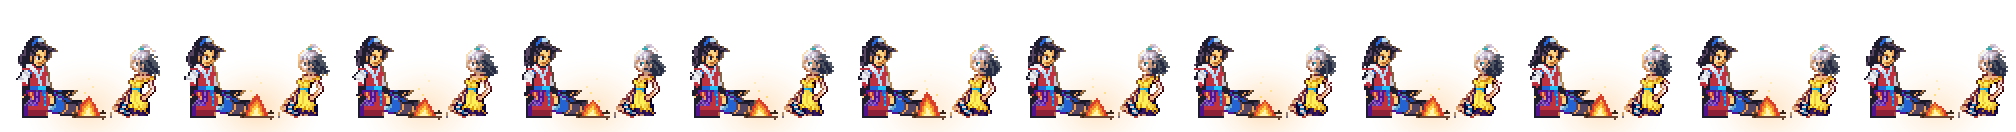
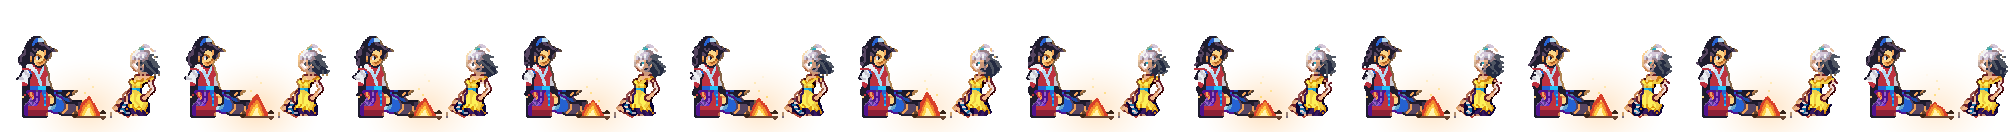
gpu render fix

diff --git a/tools/make_campfire.py b/tools/make_campfire.py
@@ -2,6 +2,7 @@
 Детали вырезаются из атласов, поворачиваются/отражаются и ставятся в позу «сидят у костра». Рисуется в родном
 разрешении игры и увеличивается x2 без сглаживания, потому что остальная графика меню тоже пиксельная."""
 import math, os
+import numpy as np
 from PIL import Image, ImageDraw
 
 ASSETS = os.path.join(os.path.dirname(os.path.abspath(__file__)), "..", "app", "src", "main", "assets")
@@ -334,6 +335,26 @@ def wind(img, box, phase, a0, a1, lag=0.45):
         img.alpha_composite(seg, (x0 + d, y))
 
 
+def epx2(img):
+    """Scale2x/EPX: увеличение вдвое со сглаживанием диагоналей (как игра сглаживает свои спрайты); игра потом ещё раз сглаживает при выводе."""
+    a = np.array(img.convert("RGBA")).astype(np.uint32)
+    k = (a[:, :, 0] << 24) | (a[:, :, 1] << 16) | (a[:, :, 2] << 8) | a[:, :, 3]
+    k = np.where(a[:, :, 3] == 0, 0, k)
+    pad = np.pad(k, 1, mode="edge")
+    A, D = pad[:-2, 1:-1], pad[2:, 1:-1]
+    C, B = pad[1:-1, :-2], pad[1:-1, 2:]
+    P = k
+    o1 = np.where((C == A) & (C != D) & (A != B), A, P)
+    o2 = np.where((A == B) & (A != C) & (B != D), B, P)
+    o3 = np.where((D == C) & (D != B) & (C != A), C, P)
+    o4 = np.where((B == D) & (B != A) & (D != C), D, P)
+    h, w = k.shape
+    out = np.zeros((h * 2, w * 2), dtype=np.uint32)
+    out[0::2, 0::2], out[0::2, 1::2], out[1::2, 0::2], out[1::2, 1::2] = o1, o2, o3, o4
+    rgba = np.stack([(out >> 24) & 255, (out >> 16) & 255, (out >> 8) & 255, out & 255], axis=-1).astype(np.uint8)
+    return Image.fromarray(rgba, "RGBA")
+
+
 def frame(i):
     nat = Image.new("RGBA", (NW, NH), (0, 0, 0, 0))
     talk_h = i < 6
@@ -348,7 +369,7 @@ def frame(i):
         wind(nat, (NW - 24, top_a + 27, NW - 3, top_a + 36), ph + 0.3, 0.4, 1.1, 0.8)  # подол платья
     firelight(nat, i)
     fire(nat, i)
-    big = nat.resize((FW, FH), Image.NEAREST)
+    big = epx2(nat)
     out = glow(i)
     out.alpha_composite(big)
     return out, nat

diff --git a/app/src/main/java/compat/GameView.java b/app/src/main/java/compat/GameView.java
@@ -310,7 +310,10 @@ public class GameView extends SurfaceView implements SurfaceHolder.Callback, Dis
    /** Кадр прямо на экран на видеокарте: команды рисования проигрываются на аппаратном Canvas с матрицей масштаба. */
    @Override
    public boolean presentReplay(float alpha) {
-      if (!surfaceReady || hwFailed || android.os.Build.VERSION.SDK_INT < 26) {
+      if (!surfaceReady) {
+         return false; // поверхность ещё не создана (старт): режим видеокарты не сбрасываем, кадр придёт позже
+      }
+      if (hwFailed || android.os.Build.VERSION.SDK_INT < 26) {
          Display.gpu = false;
          gpuDrawn = false;
          return false;
@@ -371,7 +374,10 @@ public class GameView extends SurfaceView implements SurfaceHolder.Callback, Dis
    /** Готовый растровый кадр (меню/заставки) через видеокарту: Scale2x на процессоре один раз на кадр, вывод и масштаб - аппаратные. */
    @Override
    public boolean presentBitmapGpu(Image frame) {
-      if (!surfaceReady || hwFailed || android.os.Build.VERSION.SDK_INT < 26) {
+      if (!surfaceReady) {
+         return false; // поверхность ещё не создана (старт): режим видеокарты не сбрасываем, кадр придёт позже
+      }
+      if (hwFailed || android.os.Build.VERSION.SDK_INT < 26) {
          Display.gpu = false;
          gpuDrawn = false;
          return false;

diff --git a/tools/make_title_scene.py b/tools/make_title_scene.py
@@ -259,7 +259,8 @@ def make_scene():
     tree = tree.crop(bb)
     tree = dusk_grade(tree, 0.0)
     TS = 1.8   # дерево в масштабе героев (они x2)
-    tree = tree.resize((int(tree.width * TS), int(tree.height * TS)), Image.NEAREST)
+    import make_campfire
+    tree = make_campfire.epx2(tree).resize((int(tree.width * TS), int(tree.height * TS)), Image.BILINEAR)
     tree.save(os.path.join(OUT, "title_tree.png"), optimize=True)
     # центр ствола: самый широкий ряд пикселей коры в нижней трети
     ta2 = np.array(tree)
